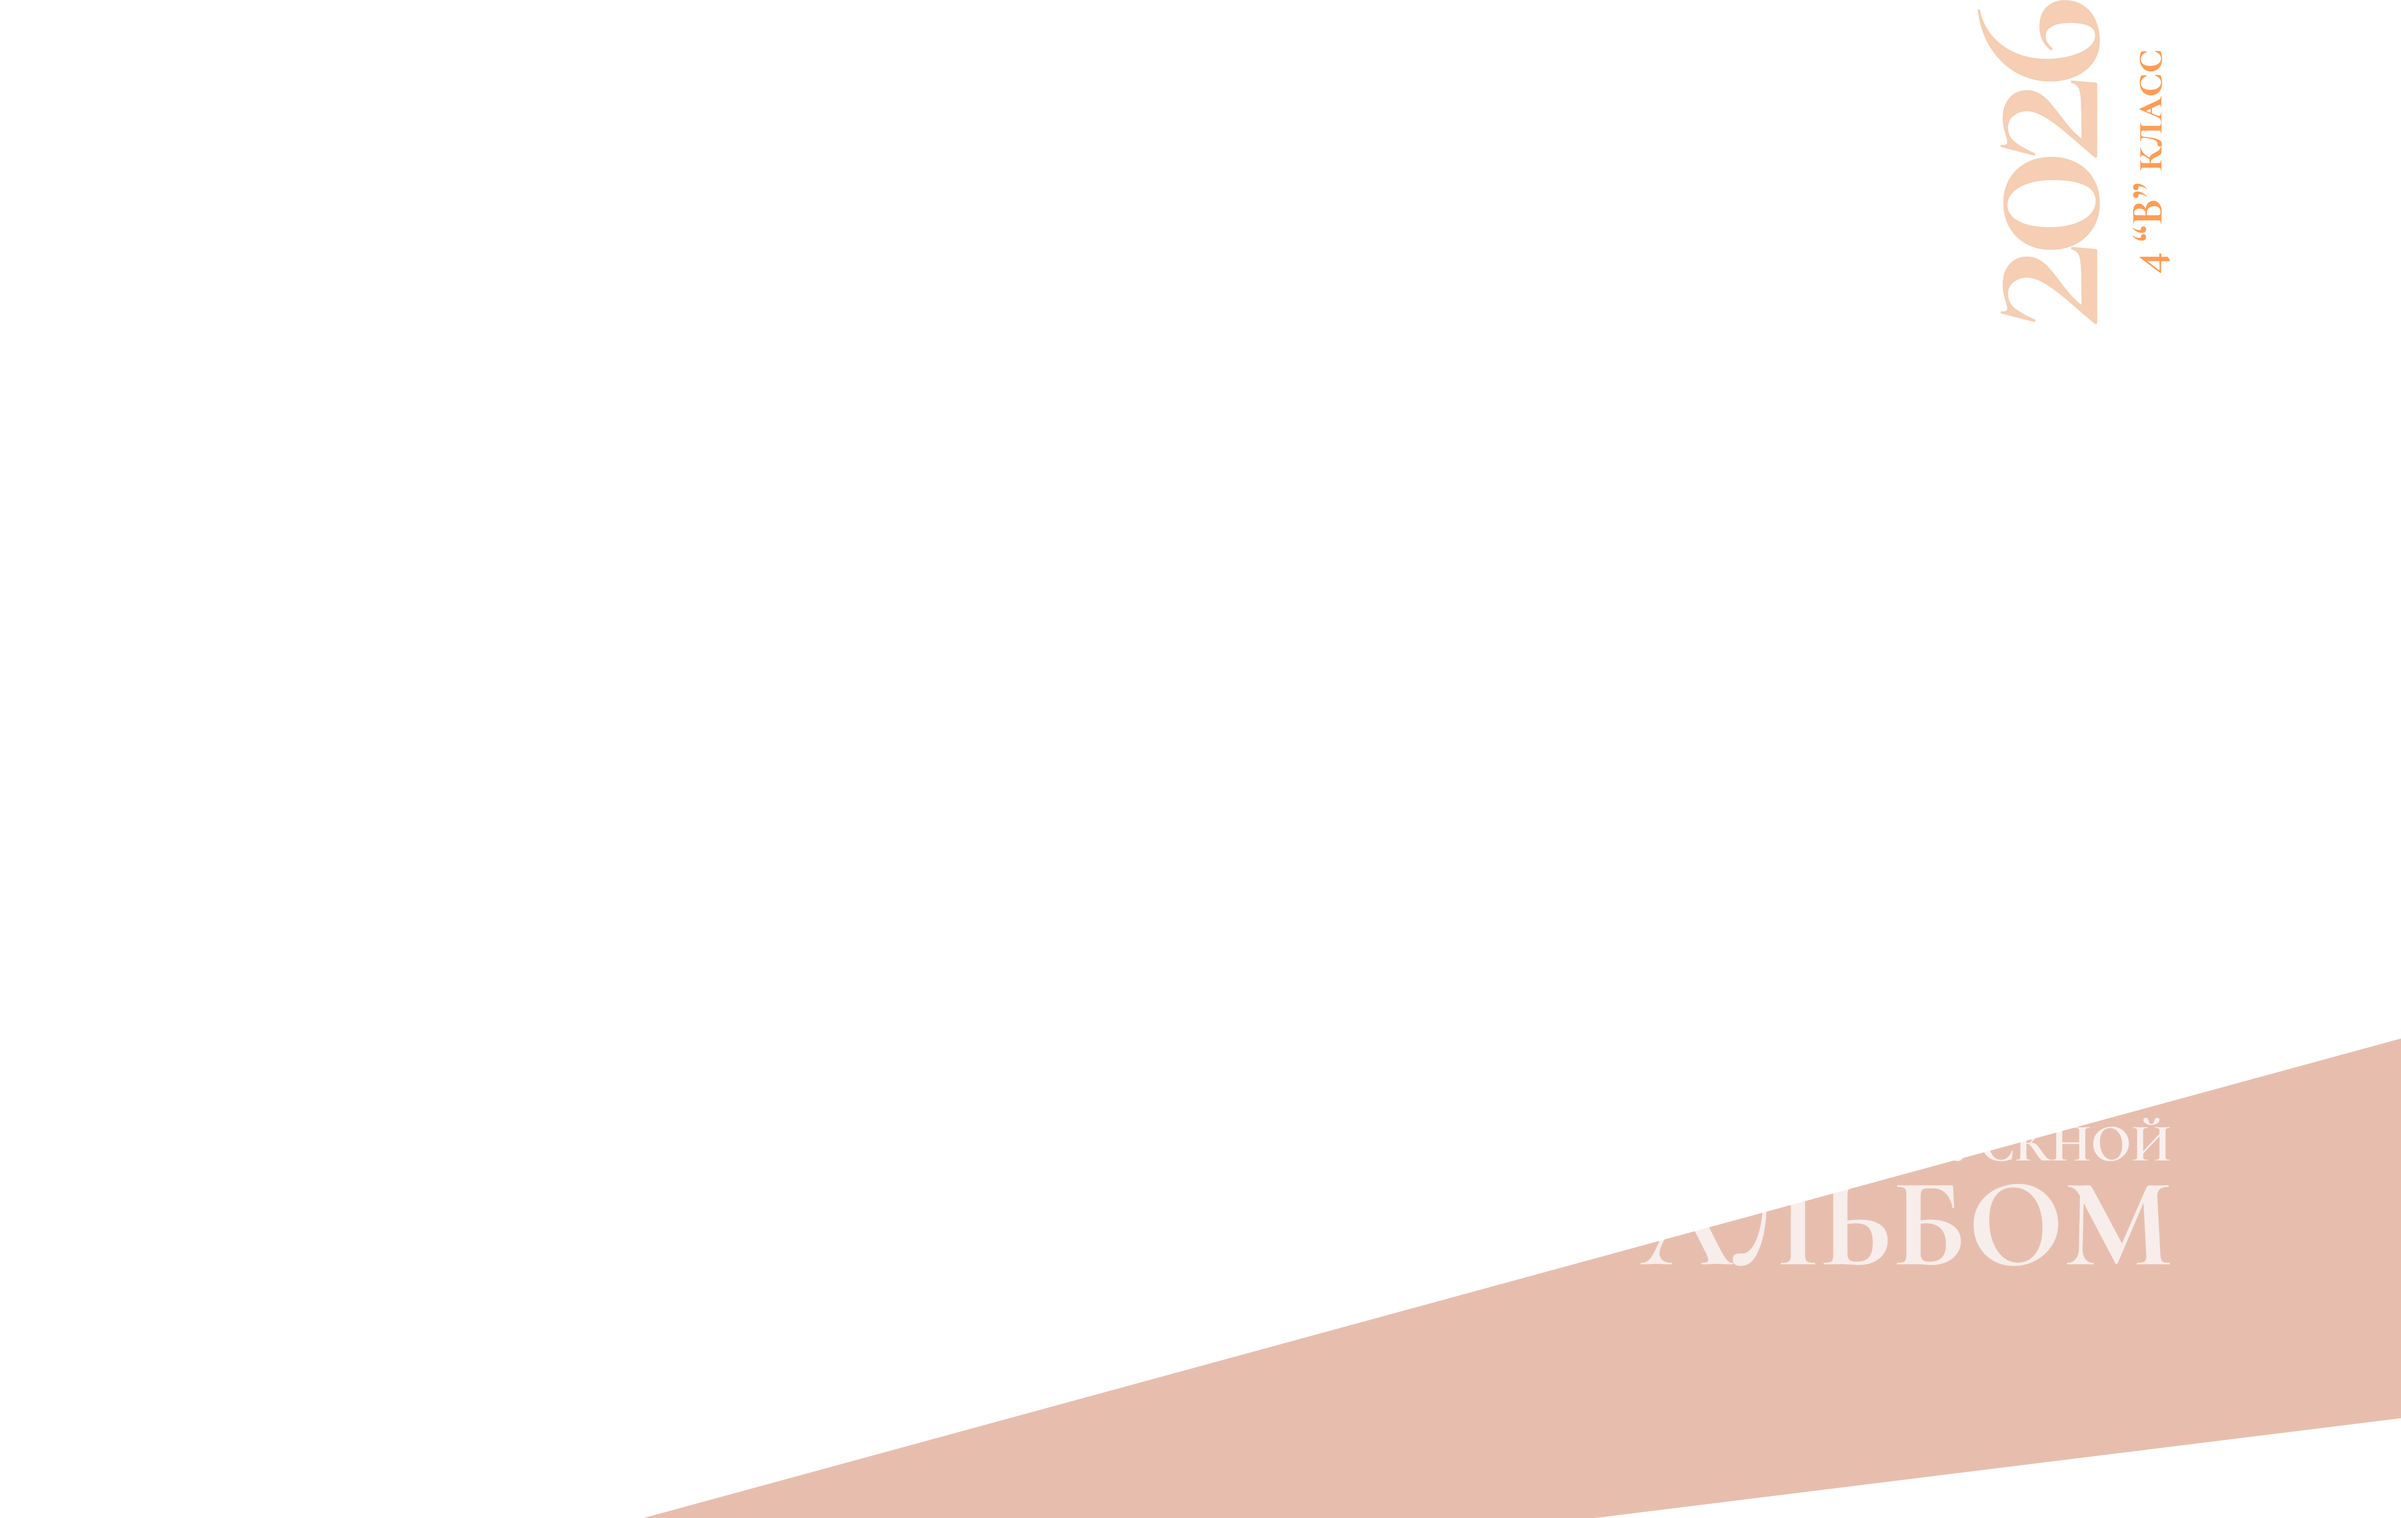
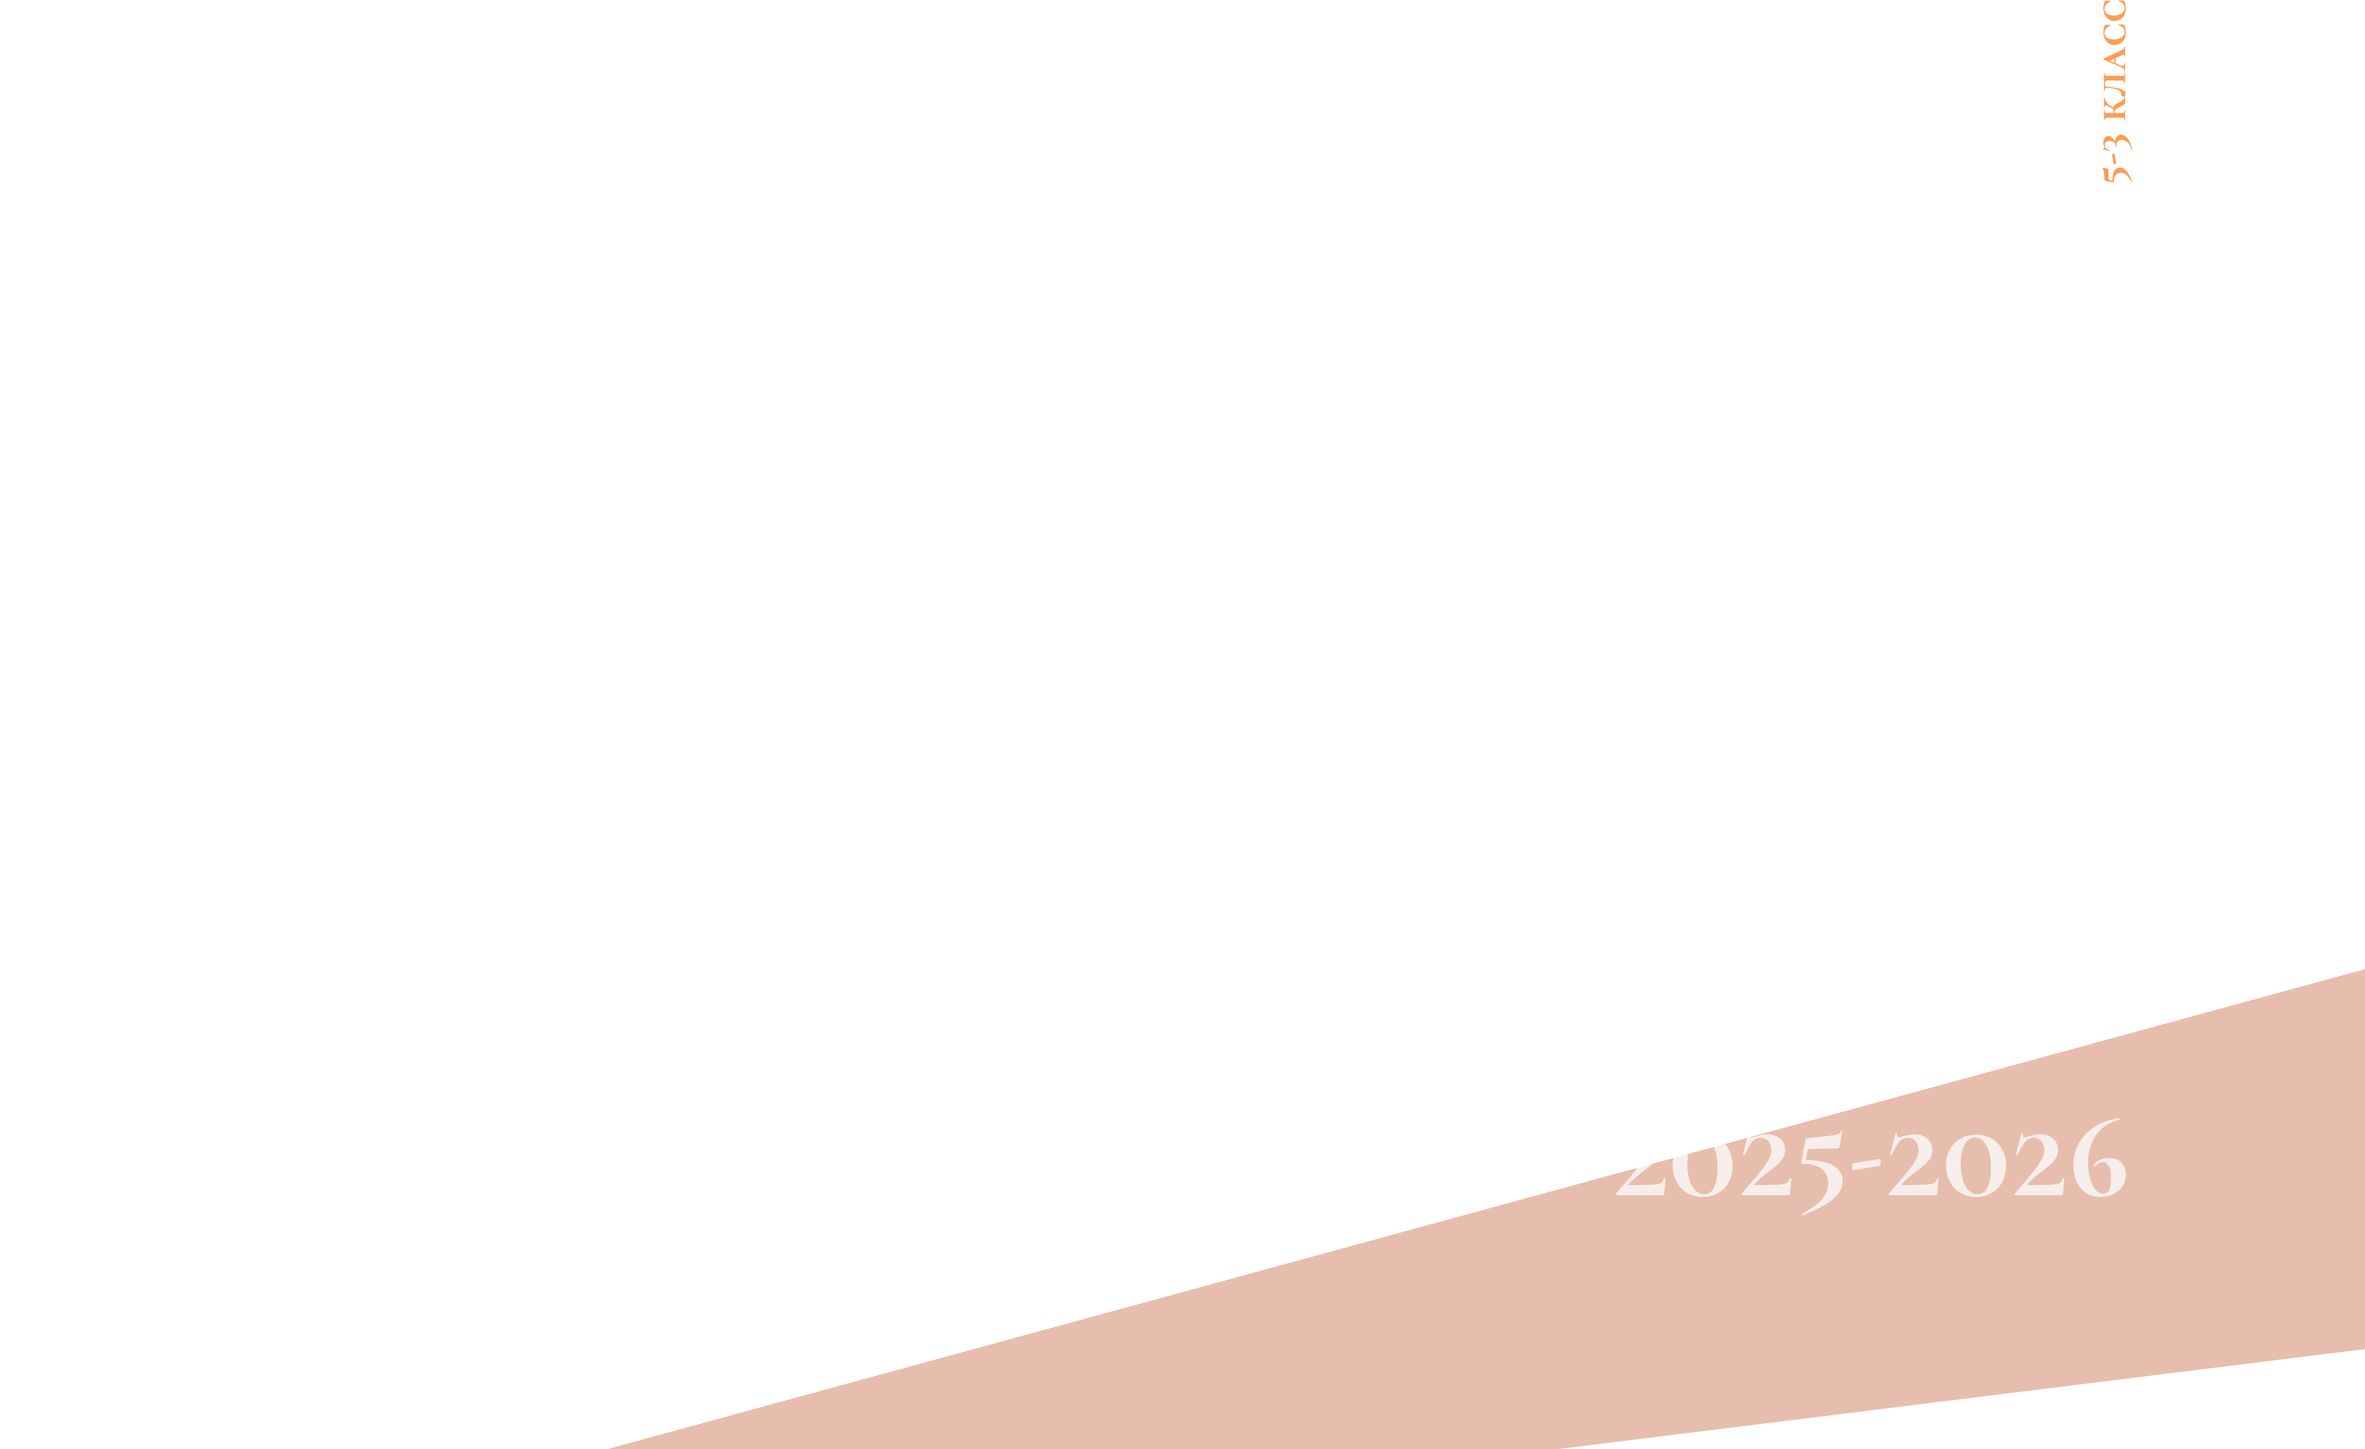
chokolade fix

diff --git a/constants.js b/constants.js
@@ -501,8 +501,8 @@ export const ALBUM_NAMES_DATA = {
           // указывается смещение декорации относительно координат фото
           offsets: {
             // из таблицы
-            left: -3132,
-            top: 89,
+            left: -3000,
+            top: 269,
           }
         },
       },
